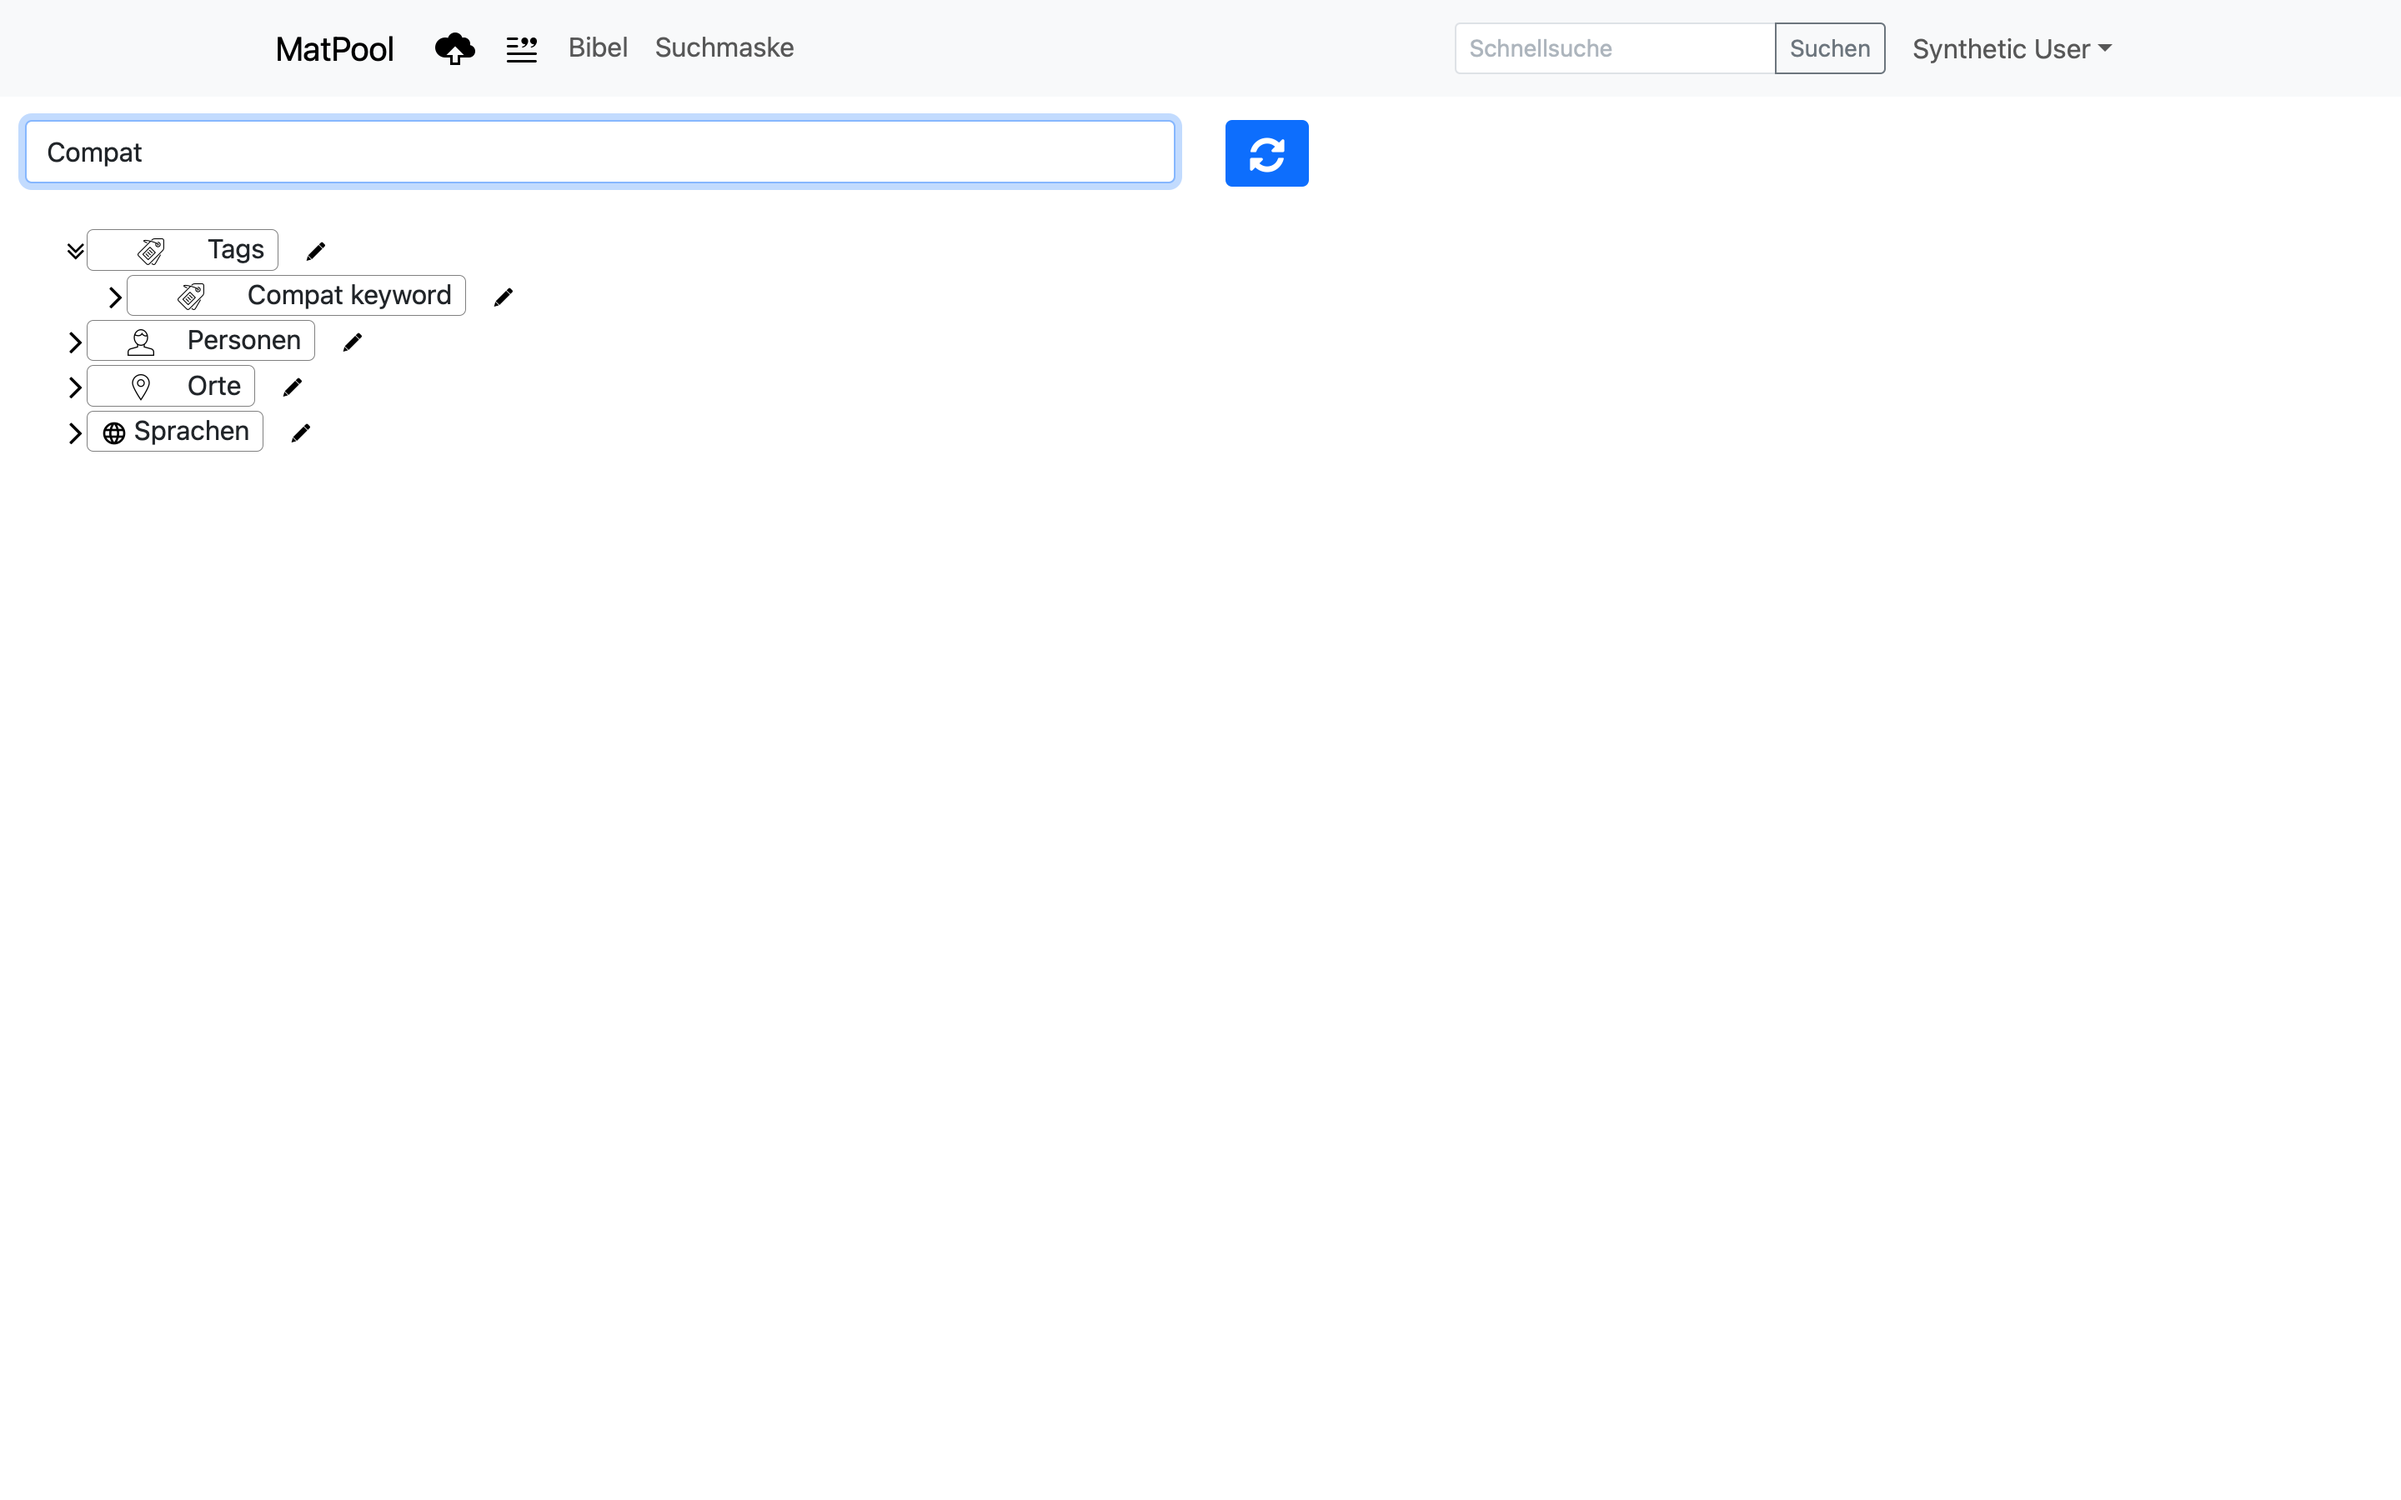
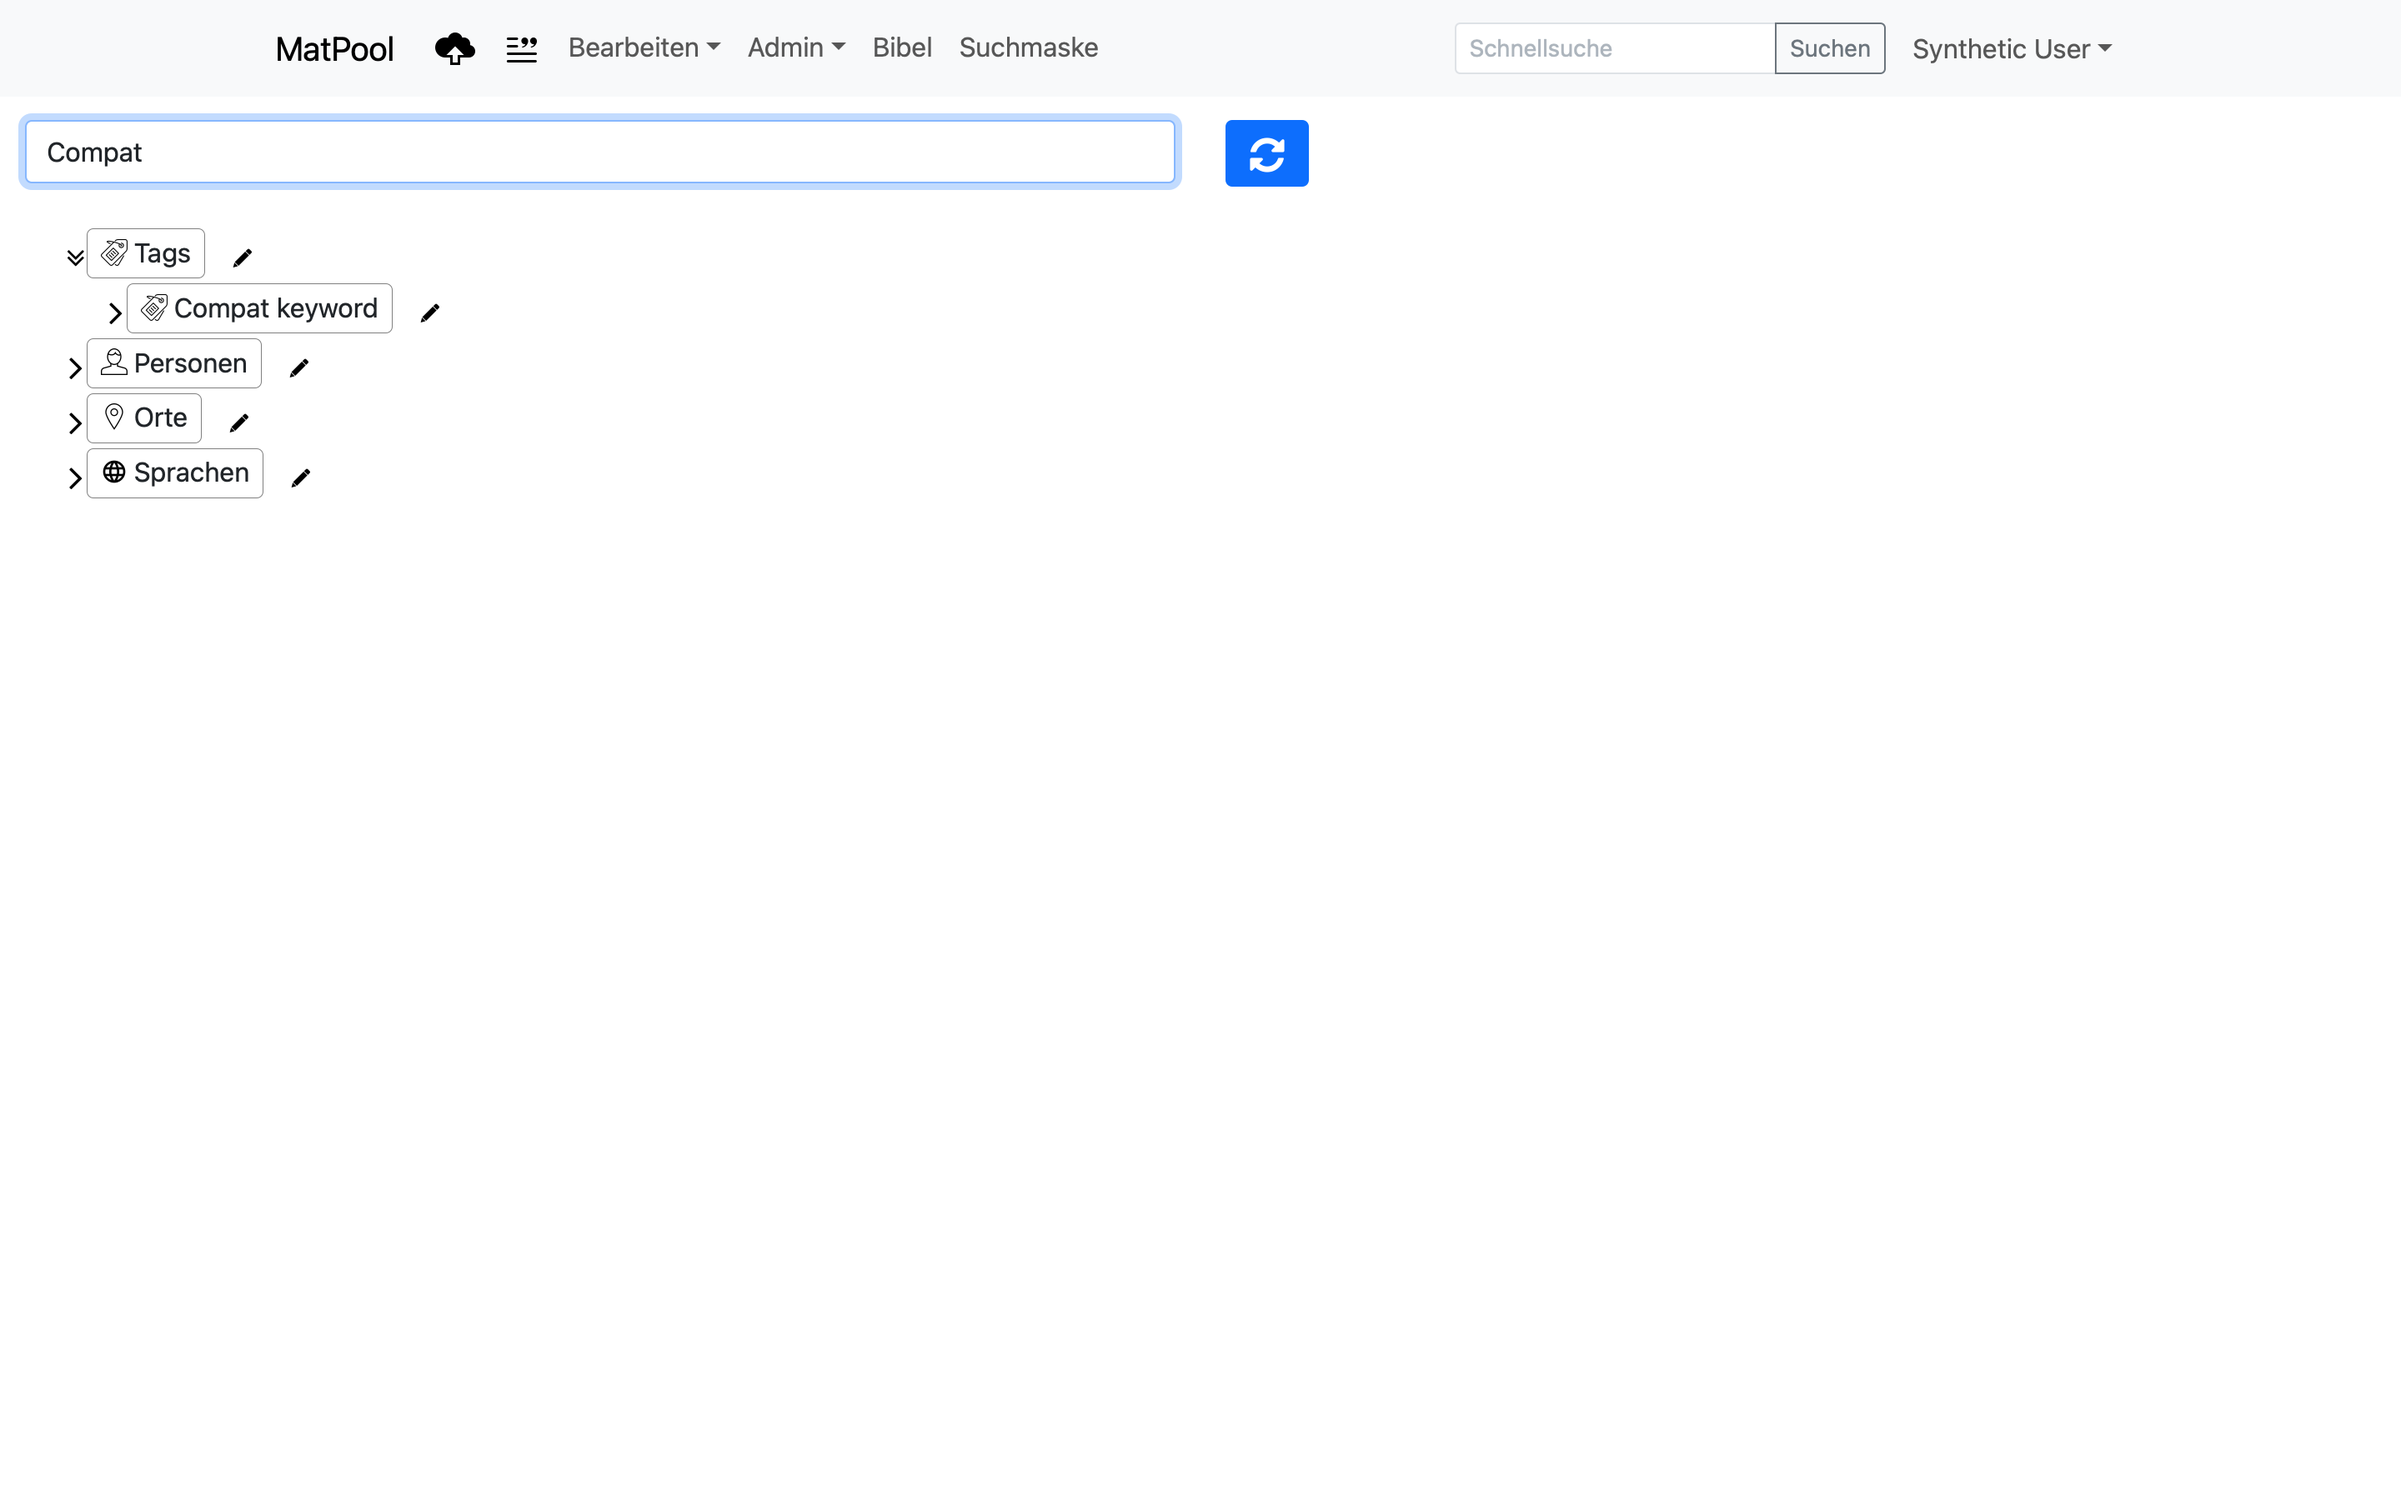
Admin-Navigation und Dokumentationsbilder aktualisieren

Changed region(s): [[0.0312, 0.1556, 0.1875, 0.3422], [0.25, 0.0311, 0.3438, 0.0622]]

diff --git a/docs/anwendung.md b/docs/anwendung.md
@@ -12,7 +12,7 @@
 
 ## Anmeldung und Navigation
 
-Materialpool ist geschützt. Nach erfolgreicher Anmeldung öffnet `/vue` die Startseite. Oben stehen – abhängig von den zugewiesenen Berechtigungen – Upload, neue Textressource, Bibel, Suchmaske, Schnellsuche und das Benutzerkonto zur Verfügung. Das Menü **Bearbeiten** erscheint für Global-Admins und Benutzer mit passenden Verwaltungsrechten. Auf kleinen Bildschirmen wird die Navigation über den Menüschalter geöffnet.
+Materialpool ist geschützt. Nach erfolgreicher Anmeldung öffnet `/vue` die Startseite. Oben stehen – abhängig von den zugewiesenen Berechtigungen – Upload, neue Textressource, Bibel, Suchmaske, Schnellsuche und das Benutzerkonto zur Verfügung. Das Menü **Bearbeiten** erscheint für Global-Admins und Benutzer mit Schlagwort-Verwaltungsrecht. **Admin** enthält für Global-Admins Jobs und Kalibrierung. Benutzer mit `bundles.manage` sehen dort weiterhin die Bundleverwaltung. Auf kleinen Bildschirmen wird die Navigation über den Menüschalter geöffnet.
 
 <!-- README-SCREENSHOT
 id: login
@@ -216,16 +216,16 @@ Der Schlagwortbaum kann gefiltert, geöffnet und hierarchisch bearbeitet werden.
 <!-- README-SCREENSHOT
 id: keyword-management
 route: /vue/keyword
-state: gefilterter Schlagwortbaum
+state: gefilterter Schlagwortbaum mit Admin-Hauptnavigation
 role: Administrator
 viewport: desktop-webkit (1440x900)
 fixture: docs-v1
 source: tests/browser/compat-app.spec.js#keyword-tree-loads-filters-and-force-refreshes-through-pinia
 refresh: KeywordList, Baumdarstellung, Filter oder Adminnavigation geändert
 -->
-![Administration des hierarchischen Schlagwortbaums mit Suchfeld](readme/screenshots/keyword-management-desktop.png)
+![Schlagwortbaum mit Suchfeld und Admin-Menü in der Hauptnavigation](readme/screenshots/keyword-management-desktop.png)
 
-*Schlagwortverwaltung: Der Baum strukturiert Themen, Personen, Orte und Sprachen.*
+*Schlagwortverwaltung: Der Baum strukturiert Themen, Personen, Orte und Sprachen; die Admin-Navigation ist oben sichtbar.*
 
 ### Bundles
 
@@ -234,16 +234,16 @@ Die Bundleübersicht zeigt installierte Version, verfügbare Version, Inhalt und
 <!-- README-SCREENSHOT
 id: bundle-management
 route: /vue/bundle
-state: installiertes Bundle mit verfügbarem Update
+state: installiertes Bundle mit verfügbarem Update und Admin-Hauptnavigation
 role: Administrator
 viewport: desktop-webkit (1440x900)
 fixture: docs-v1
 source: tests/browser/compat-app.spec.js#bundle-overview-loads-and-completes-an-update-through-pinia
 refresh: BundleList, Bundlekarte, Fortschritt oder Adminnavigation geändert
 -->
-![Bundleverwaltung mit installierter Version, verfügbarem Update und Verwaltungsaktionen](readme/screenshots/bundle-management-desktop.png)
+![Bundleverwaltung mit verfügbarem Update und Admin-Menü in der Hauptnavigation](readme/screenshots/bundle-management-desktop.png)
 
-*Bundleverwaltung: Versionsstand, Umfang und verfügbare Aktionen stehen direkt auf der Bundlekarte.*
+*Bundleverwaltung: Versionsstand, Umfang und Aktionen stehen auf der Bundlekarte; der Zugang liegt im Admin-Menü.*
 
 ### Weitere Werkzeuge
 

diff --git a/docs/administration.md b/docs/administration.md
@@ -13,13 +13,13 @@
 
 ## Jobs und Queues
 
-Globale Administratoren öffnen **Jobs und Queues** im Benutzermenü. Die Seite zeigt die vorhandenen Datensätze aus `jobs`, `failed_jobs` und `job_batches` in getrennten Tabs, nach Queue-Namen gruppiert. Filter und Seitenwechsel begrenzen die Listen. Alle fünf Sekunden wird die sichtbare Ansicht aktualisiert, solange der Browser-Tab aktiv ist; der Zeitpunkt der letzten erfolgreichen Aktualisierung bleibt sichtbar.
+Globale Administratoren öffnen **Admin → Jobs und Queues** in der Hauptnavigation. Die Seite zeigt die vorhandenen Datensätze aus `jobs`, `failed_jobs` und `job_batches` in getrennten Tabs, nach Queue-Namen gruppiert. Filter und Seitenwechsel begrenzen die Listen. Alle fünf Sekunden wird die sichtbare Ansicht aktualisiert, solange der Browser-Tab aktiv ist; der Zeitpunkt der letzten erfolgreichen Aktualisierung bleibt sichtbar.
 
 „Reserviert“ bedeutet, dass ein Worker den Job übernommen hat. Nach einem Worker-Abbruch kann diese Markierung vorübergehend bestehen bleiben und bestätigt deshalb keinen aktuell laufenden Prozess. Erfolgreiche Einzeljobs werden nicht historisch aufbewahrt. Die Seite kann Jobs weder neu priorisieren noch verschieben, wiederholen oder löschen. Fehlermeldungen und Job-Payloads werden nicht angezeigt. Ein Batch erhält nur dann einen Queue-Namen, wenn ein vorhandener Bundle-Importlauf ihn eindeutig zuordnet.
 
 ## OCR-Evaluationsdatensatz
 
-Globale Administratoren öffnen in der Anwendung **KI-Datensätze** und wählen den OCR-Datensatz oder legen einen neuen an. Neue OCR-Entwürfe verwenden 300 bekannte PDF-Seiten sowie mindestens je ein Buch, Arbeitsblatt und eine Präsentation als Ziel. Nach dem Hinzufügen eines PDF-Blocks wird die Dokumentart an jeder PDF-Ressource im Datensatz gewählt. PDF-Seiten ohne bekannte Seitenzahl werden angezeigt, zählen aber nicht zum Seitenziel. Materialien und Ressourcen werden weiter als zusammenhängende Blöcke zugeordnet; ihre Anzahl ist für neue OCR-Entwürfe keine Zielgröße. Eingefrorene und ältere OCR-Datensätze behalten ihre gespeicherten Ziele.
+Globale Administratoren öffnen in der Anwendung **Admin → Kalibrierung → KI-Datensätze** und wählen den OCR-Datensatz oder legen einen neuen an. Neue OCR-Entwürfe verwenden 300 bekannte PDF-Seiten sowie mindestens je ein Buch, Arbeitsblatt und eine Präsentation als Ziel. Nach dem Hinzufügen eines PDF-Blocks wird die Dokumentart an jeder PDF-Ressource im Datensatz gewählt. PDF-Seiten ohne bekannte Seitenzahl werden angezeigt, zählen aber nicht zum Seitenziel. Materialien und Ressourcen werden weiter als zusammenhängende Blöcke zugeordnet; ihre Anzahl ist für neue OCR-Entwürfe keine Zielgröße. Eingefrorene und ältere OCR-Datensätze behalten ihre gespeicherten Ziele.
 
 ## Neuer Proxmox-Betrieb
 
